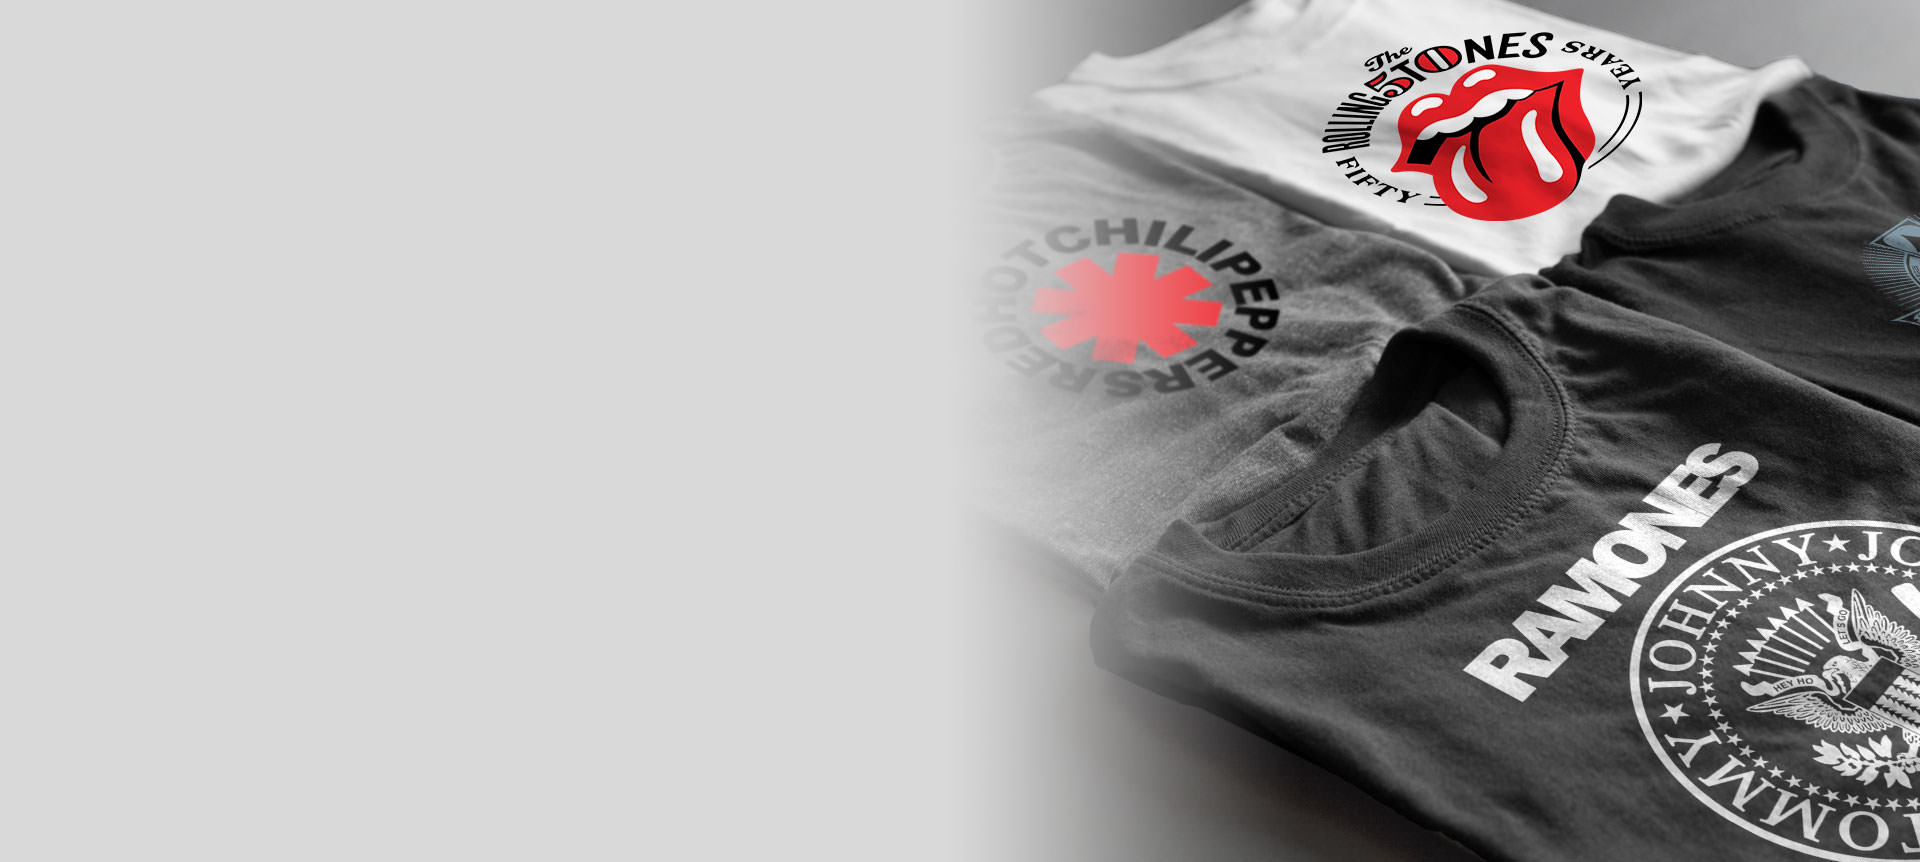
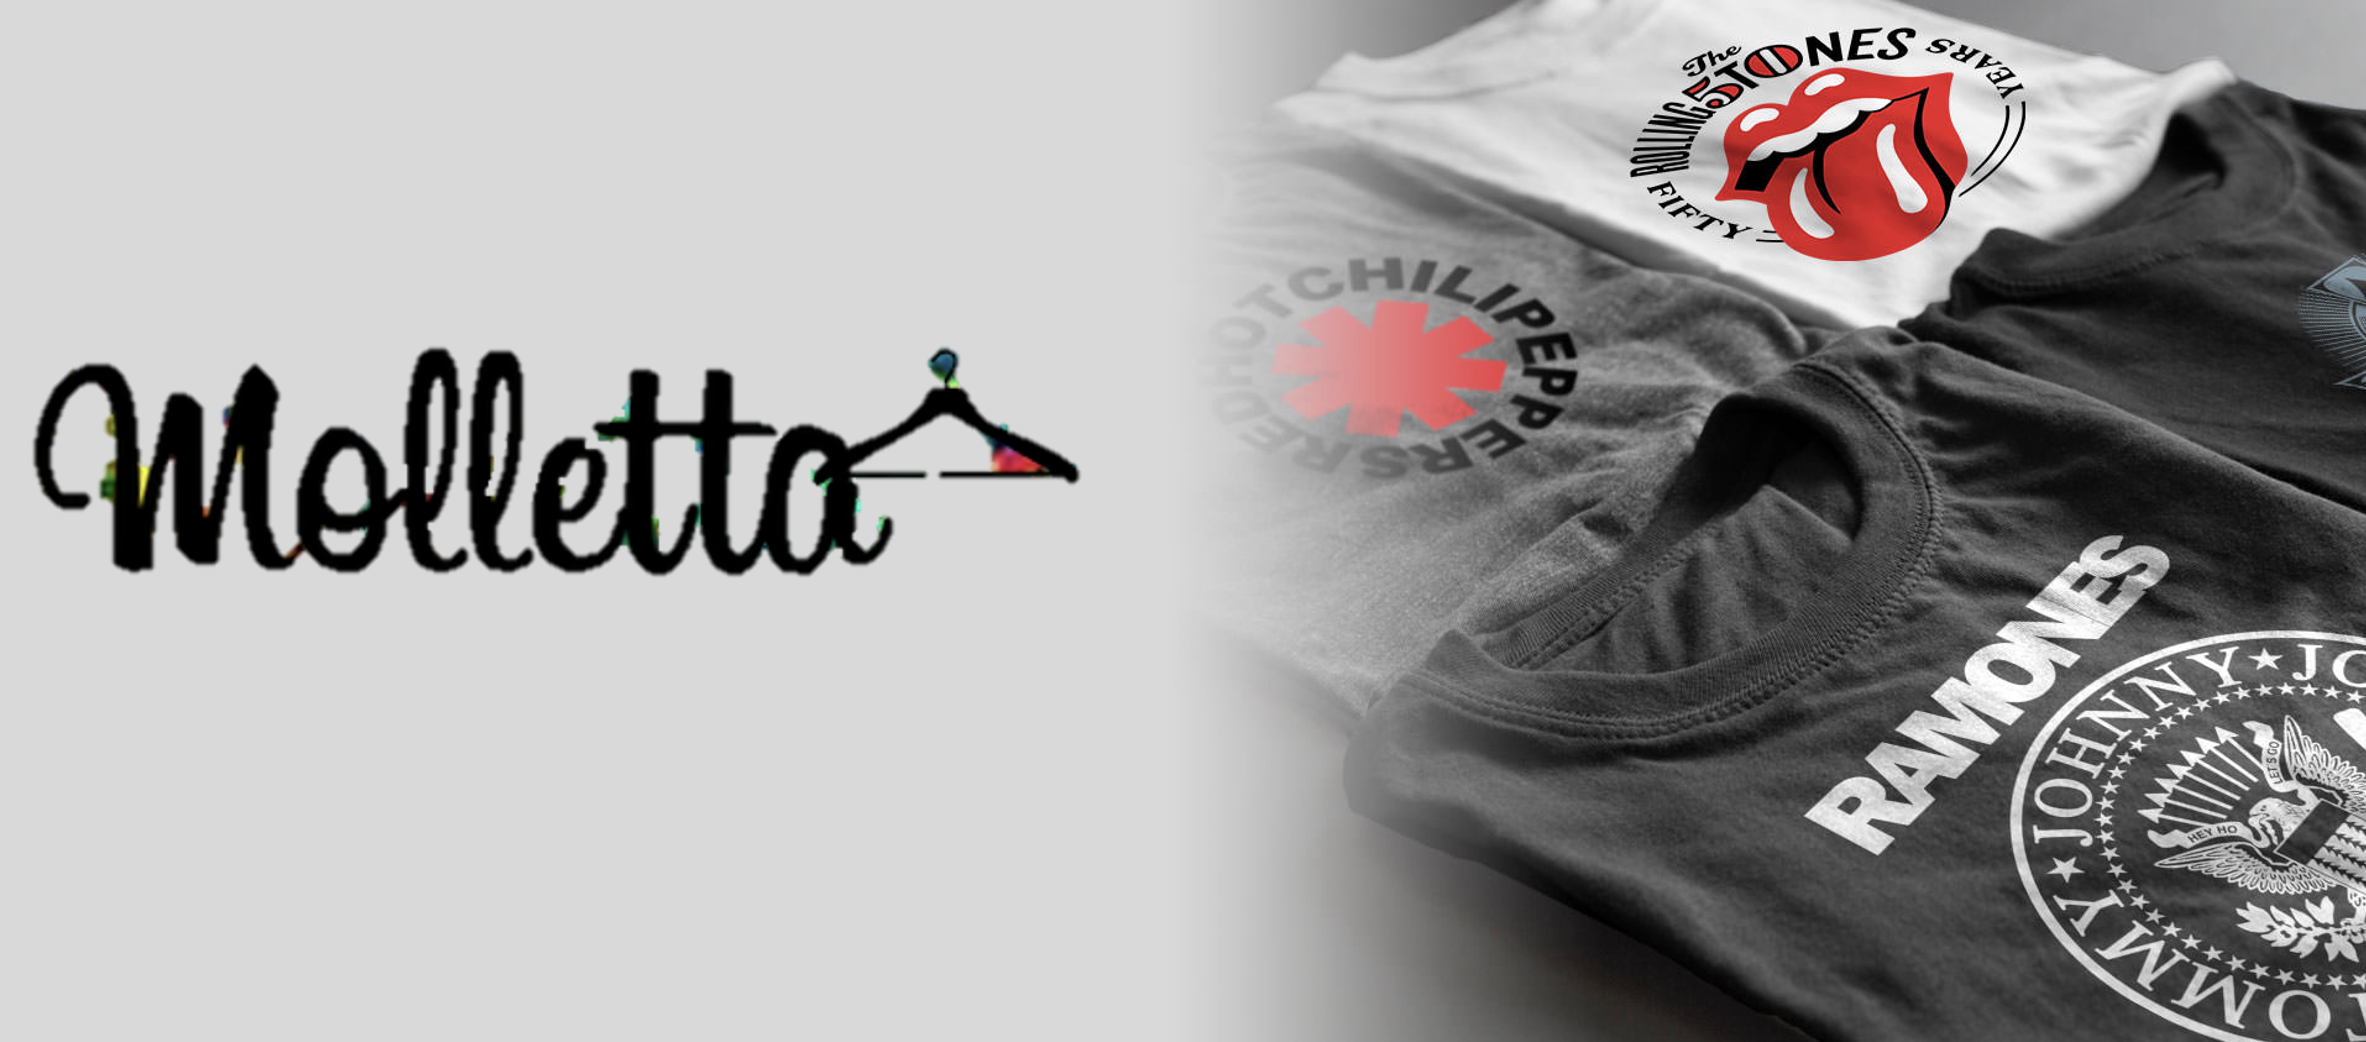
Add files via upload

diff --git a/index.html b/index.html
@@ -69,17 +69,12 @@
             </nav>
         </nav>
     </header>
-    <!-- Banner -->
-    <div class="banner banner-cover is-size-5-mobile">
-        <div class="banner-container banner-container-mobile ">
-            <h1 class="title-cover">Moletta</h1>
-            <h1></h1>
-        </div>
-    </div>
     <!-- Barra de navegacion secundaria -->
     <div class="container">
         <nav class="nav">
-            <a class="nav-item active has-text-weight-semibold">Bienvenidos!</a>
+            <div>
+             <img src="img/banner-large.jpg" alt="">
+            </div>
         </nav>
     </div>
     <!-- Sección de fotografías -->
